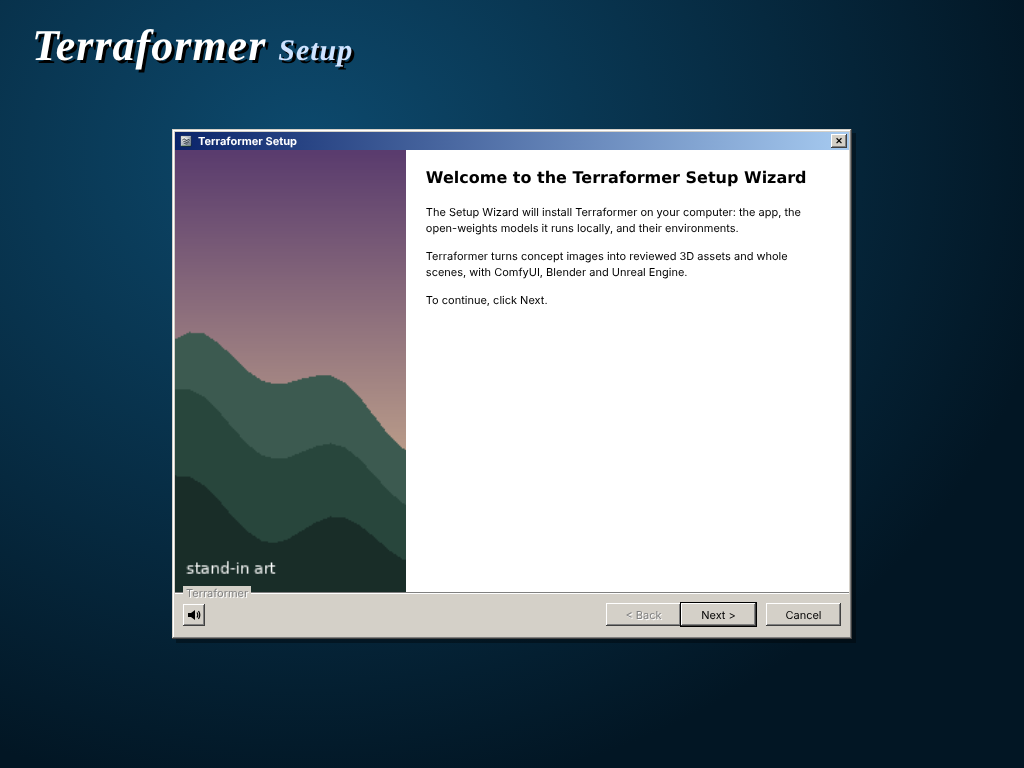
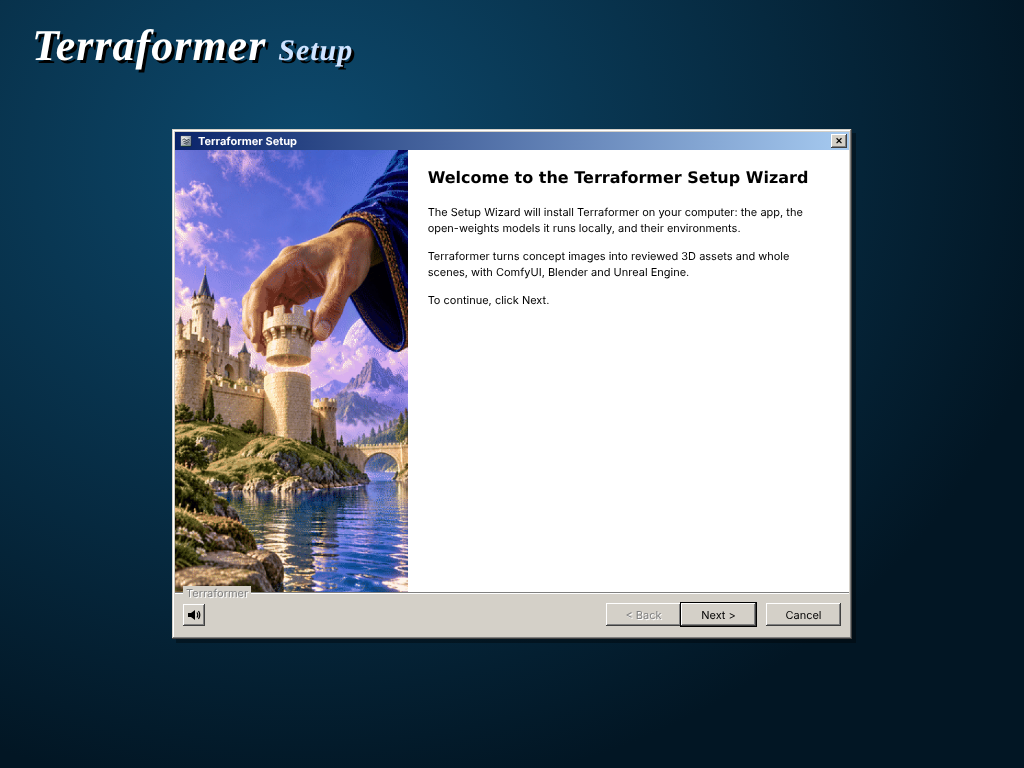
Installer screenshots with the real art; quiet dropped connections
Re-rendered docs/images/installer/ with the installer art from main (side banner, header icon,
concept video on the Installing page). The wizard's server no longer prints a traceback when the
browser drops a connection (the video's range requests, a closed tab).

Claude-Session: https://claude.ai/code/session_01PCmjN1o6hSJgD22GfFdU3v

Changed region(s): [[0.1562, 0.1875, 0.8125, 0.7812]]

diff --git a/asset_pipeline/installer.py b/asset_pipeline/installer.py
@@ -447,6 +447,14 @@ def launch_app() -> str:
 LOCAL_HOSTS = {"localhost", "127.0.0.1", "::1"}
 
 
+class Server(ThreadingHTTPServer):
+    """Quiet when the browser drops a connection (the video's range requests, a closed tab)."""
+
+    def handle_error(self, request, client_address):
+        if not isinstance(sys.exc_info()[1], ConnectionError):
+            super().handle_error(request, client_address)
+
+
 def make_handler(inst: Installer, server_state: dict):
     class Handler(BaseHTTPRequestHandler):
         protocol_version = "HTTP/1.1"
@@ -572,7 +580,7 @@ def serve(port: int | None = None, open_page: bool = True, profile: str = "", in
         inst.st["values"]["hardware_profile"] = profile
     for p in range(port, port + 10):                # the configured port, or the next free one
         try:
-            httpd = ThreadingHTTPServer(("127.0.0.1", p), make_handler(inst, server_state))
+            httpd = Server(("127.0.0.1", p), make_handler(inst, server_state))
             break
         except OSError:
             continue

diff --git a/scripts/installer_screenshots.py b/scripts/installer_screenshots.py
@@ -112,9 +112,8 @@ def main() -> None:
     out.mkdir(parents=True, exist_ok=True)
     with tempfile.TemporaryDirectory() as td:
         installer, demo = synthetic(Path(td), Path(a.assets).resolve() if a.assets else None)
-        from http.server import ThreadingHTTPServer
         state = {"profile": ""}
-        httpd = ThreadingHTTPServer(("127.0.0.1", 0), installer.make_handler(demo, state))
+        httpd = installer.Server(("127.0.0.1", 0), installer.make_handler(demo, state))
         state["httpd"] = httpd
         threading.Thread(target=httpd.serve_forever, daemon=True).start()
         url = f"http://localhost:{httpd.server_address[1]}/"
